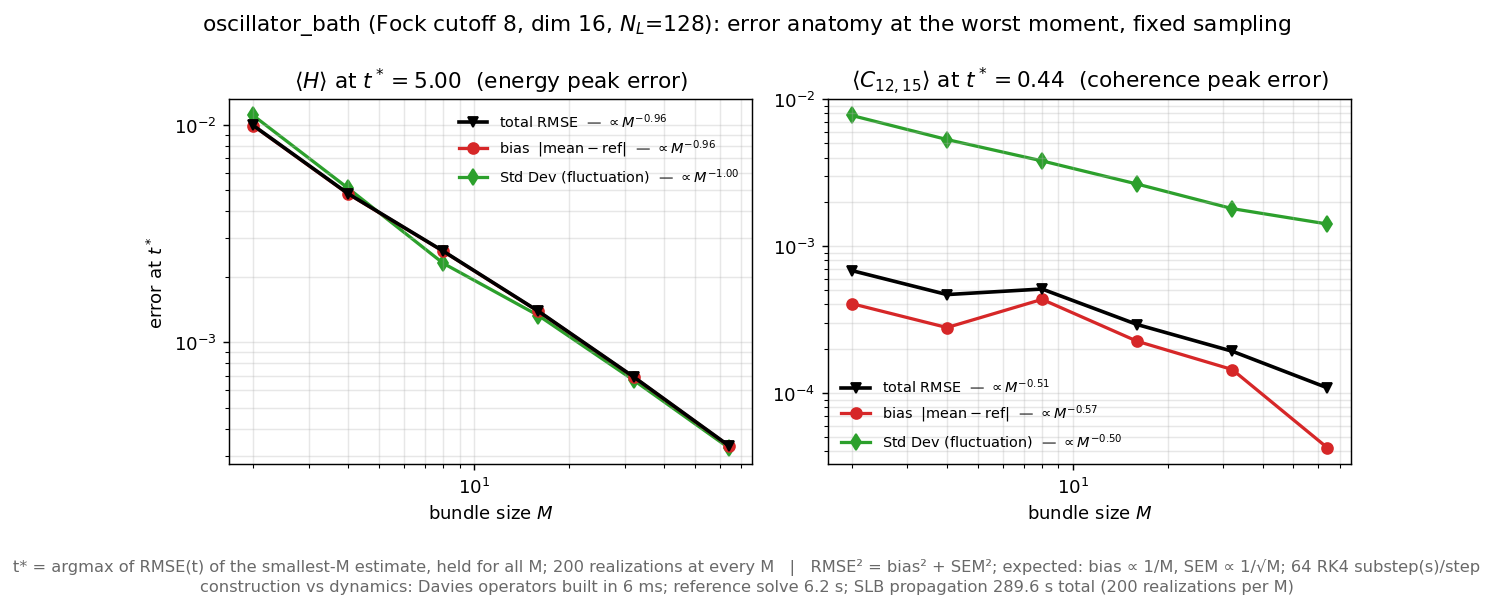
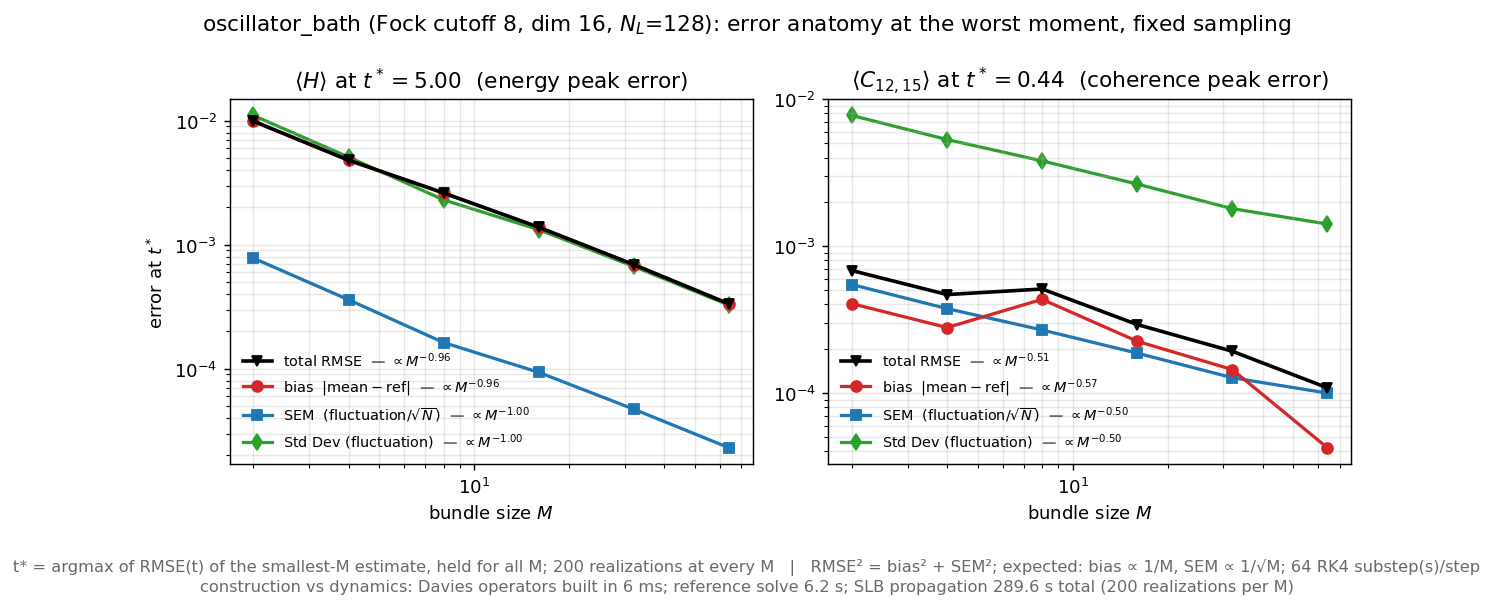
error resutls 1

diff --git a/benchmarks/plot_accuracy_vs_M.py b/benchmarks/plot_accuracy_vs_M.py
@@ -39,7 +39,7 @@ from common import (
 # --- CONFIGURATION (TOGGLES FOR DECOMPOSITION PLOT) ---
 PLOT_RMSE = True
 PLOT_BIAS = True
-PLOT_SEM  = False
+PLOT_SEM  = True
 PLOT_STD  = True
 # ------------------------------------------------------
 
